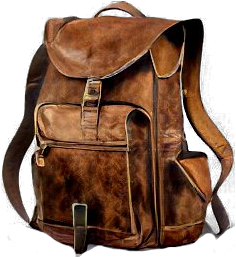
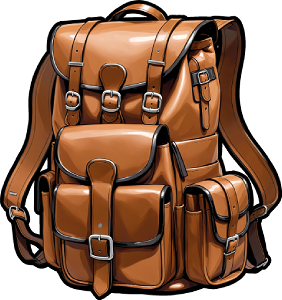
update big backpack graphics

diff --git a/SonOfRobin.Core/Game/Animation/AnimData.cs b/SonOfRobin.Core/Game/Animation/AnimData.cs
@@ -1908,7 +1908,7 @@ namespace SonOfRobin
 
                 case PkgName.BackpackBig:
                     {
-                        animPkg = MakePackageForSingleImage(pkgName: pkgName, width: 236, height: 258, scale: 0.1f, layer: 0, animSize: 0, altasName: "backpack_big", hasOnePixelMargin: true);
+                        animPkg = MakePackageForSingleImage(pkgName: pkgName, width: 282, height: 300, scale: 0.12f, layer: 0, animSize: 0, altasName: "backpack_big", hasOnePixelMargin: false);
                         break;
                     }
 
